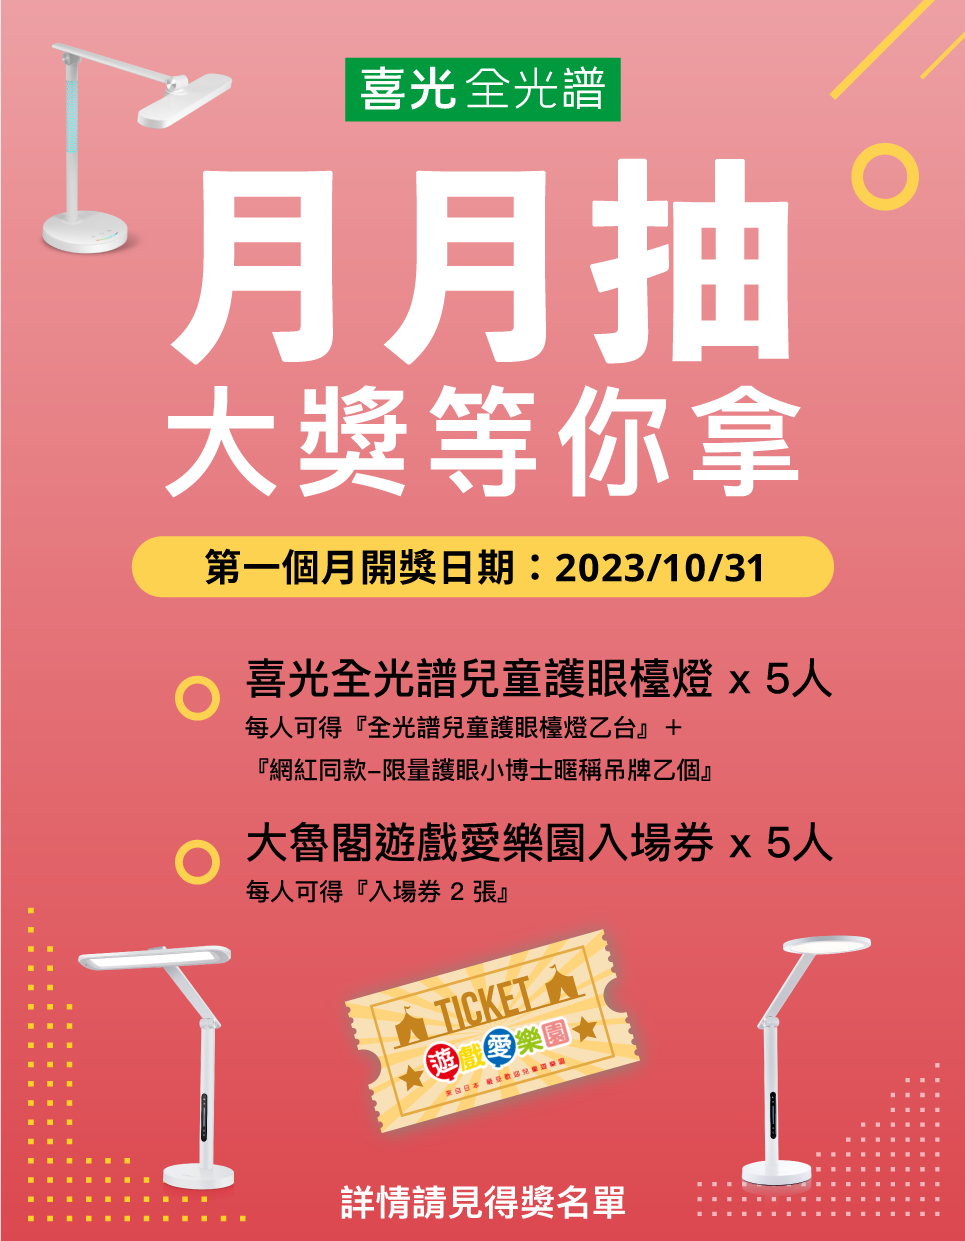
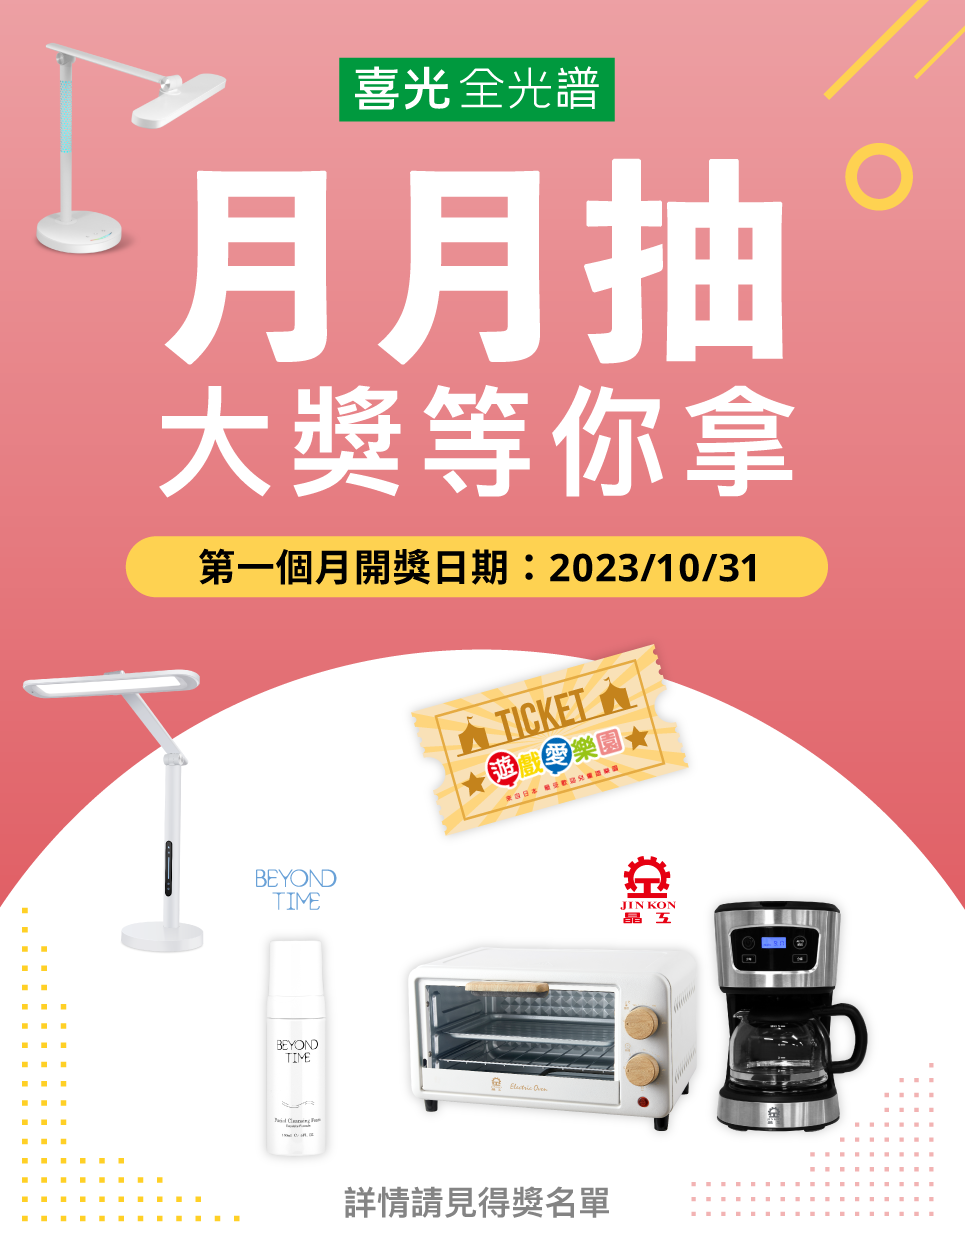
fix

diff --git a/src/App.vue b/src/App.vue
@@ -12,6 +12,7 @@ import http from "./http";
 import Notify from "./components/Notify.vue";
 import logo from "./assets/sylstarlogo.png";
 import logo2 from "./assets/jk.png";
+import logo3 from "./assets/logo3.png";
 
 const showLoading = ref(false);
 const winnersDialog = ref(false);
@@ -344,7 +345,7 @@ const fontFamily = {
 中獎人數：5人，每人可得<span class="font-bold text-primary">『入場券 2 張』</span><br/><br/>
 <p class="text-sm text-gray-500">
   使用期限：<br/>
-  2023年10月31日～ 2024年04月30日
+  2023年10月31日～ 2024年06月30日
 </p>
 <br/>
 <p class="text-sm text-gray-500">
@@ -357,10 +358,28 @@ const fontFamily = {
 <p class="text-sm text-gray-500">
   遊玩時間：<br/>
   平日不限時，假日限時兩小時
-
 <br/>
 </p>
 </p>
+
+<p>
+              <span class="font-bold">(3) 晶工</span><br/>
+中獎人數：2人，每人可得<span class="font-bold text-primary">『晶工小家電乙台』</span><br/>
+<p class="text-gray-500">
+  - 美式咖啡壺JK-917
+<br/>
+- 9L電烤箱 JK-709
+<br/>
+<span class="text-red-500 text-xs">＊以上兩款隨機出貨，不可挑選品項</span>
+</p>
+</p>
+
+<p>
+              <span class="font-bold">(4) Beyond Time</span><br/>
+中獎人數：10人，每人可得<span class="font-bold text-primary">『胺基酸多元潔顏慕斯150ml乙罐』</span><br/>
+
+</p>
+<br/>
           </div>
           <Btn @click="winnersDialog = false" class="w-full">確定</Btn>
         </div>
@@ -485,6 +504,7 @@ const fontFamily = {
       <div class="flex  max-w-[720px] mx-auto gap-4 px-4 sm:px-0">
       <img :src="logo" class="h-[60px] sm:h-[80px] mx-auto"/>
       <img :src="logo2" class="h-[60px] sm:h-[80px] mx-auto"/>
+      <img :src="logo3" class="h-[80px] sm:h-[100px] mx-auto"/>
     </div>
 
     </div>
